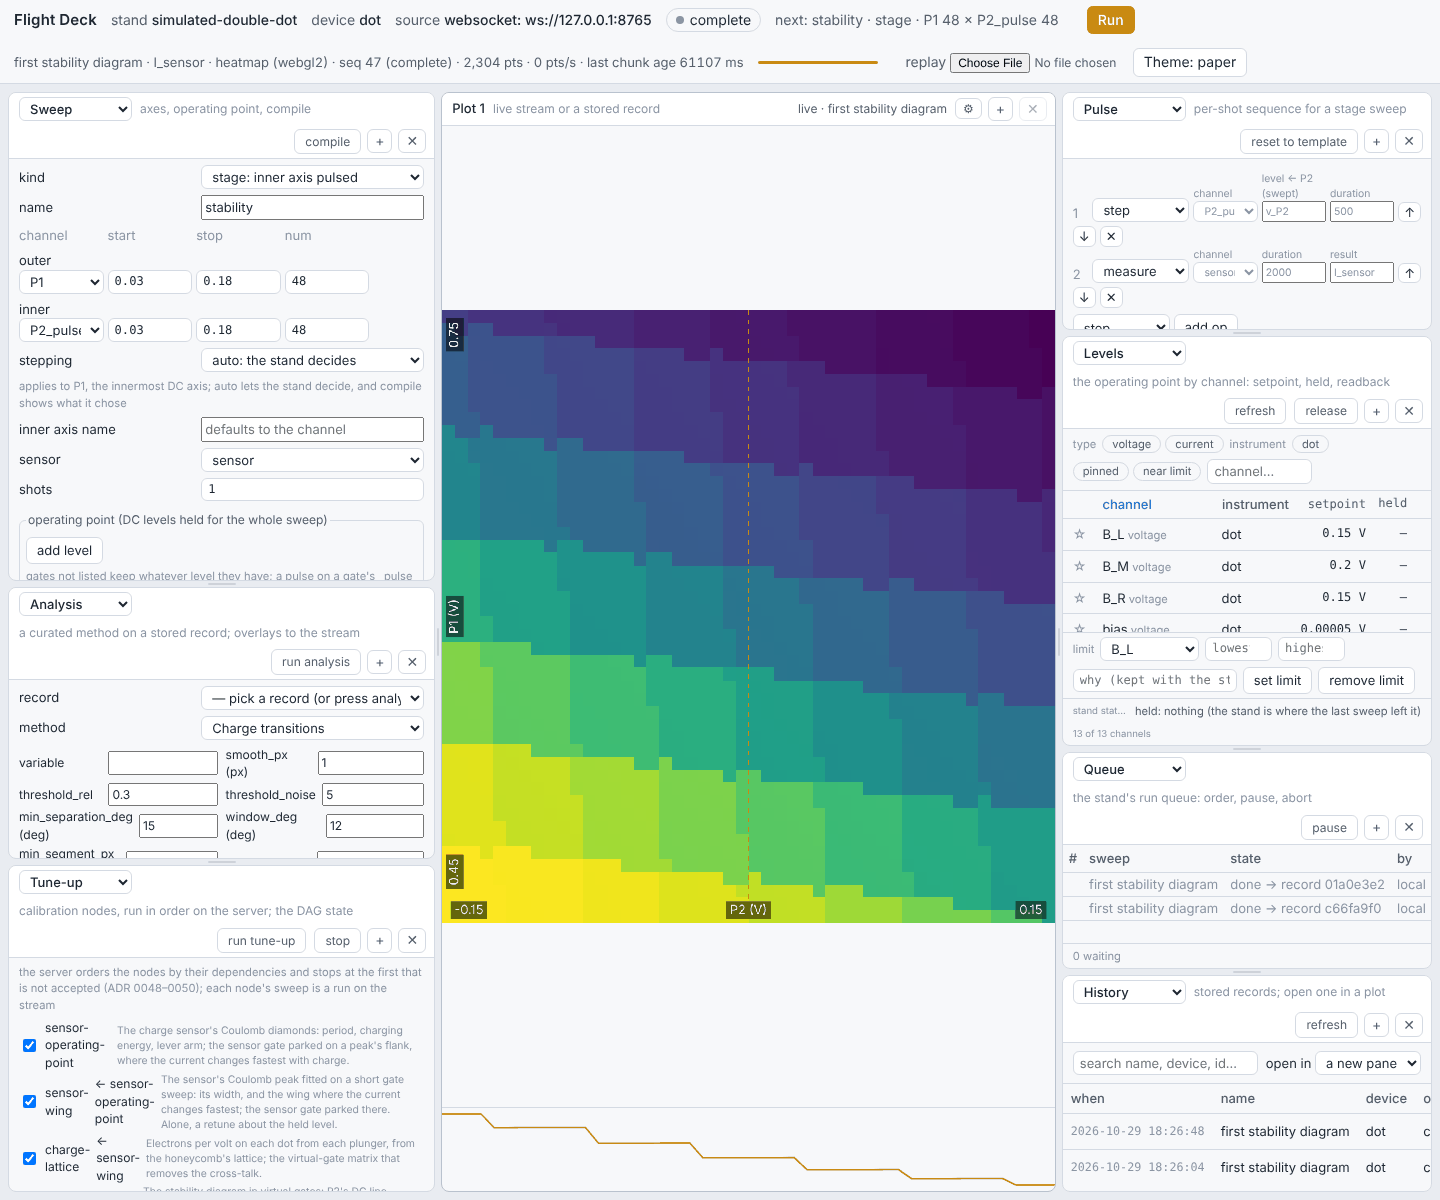
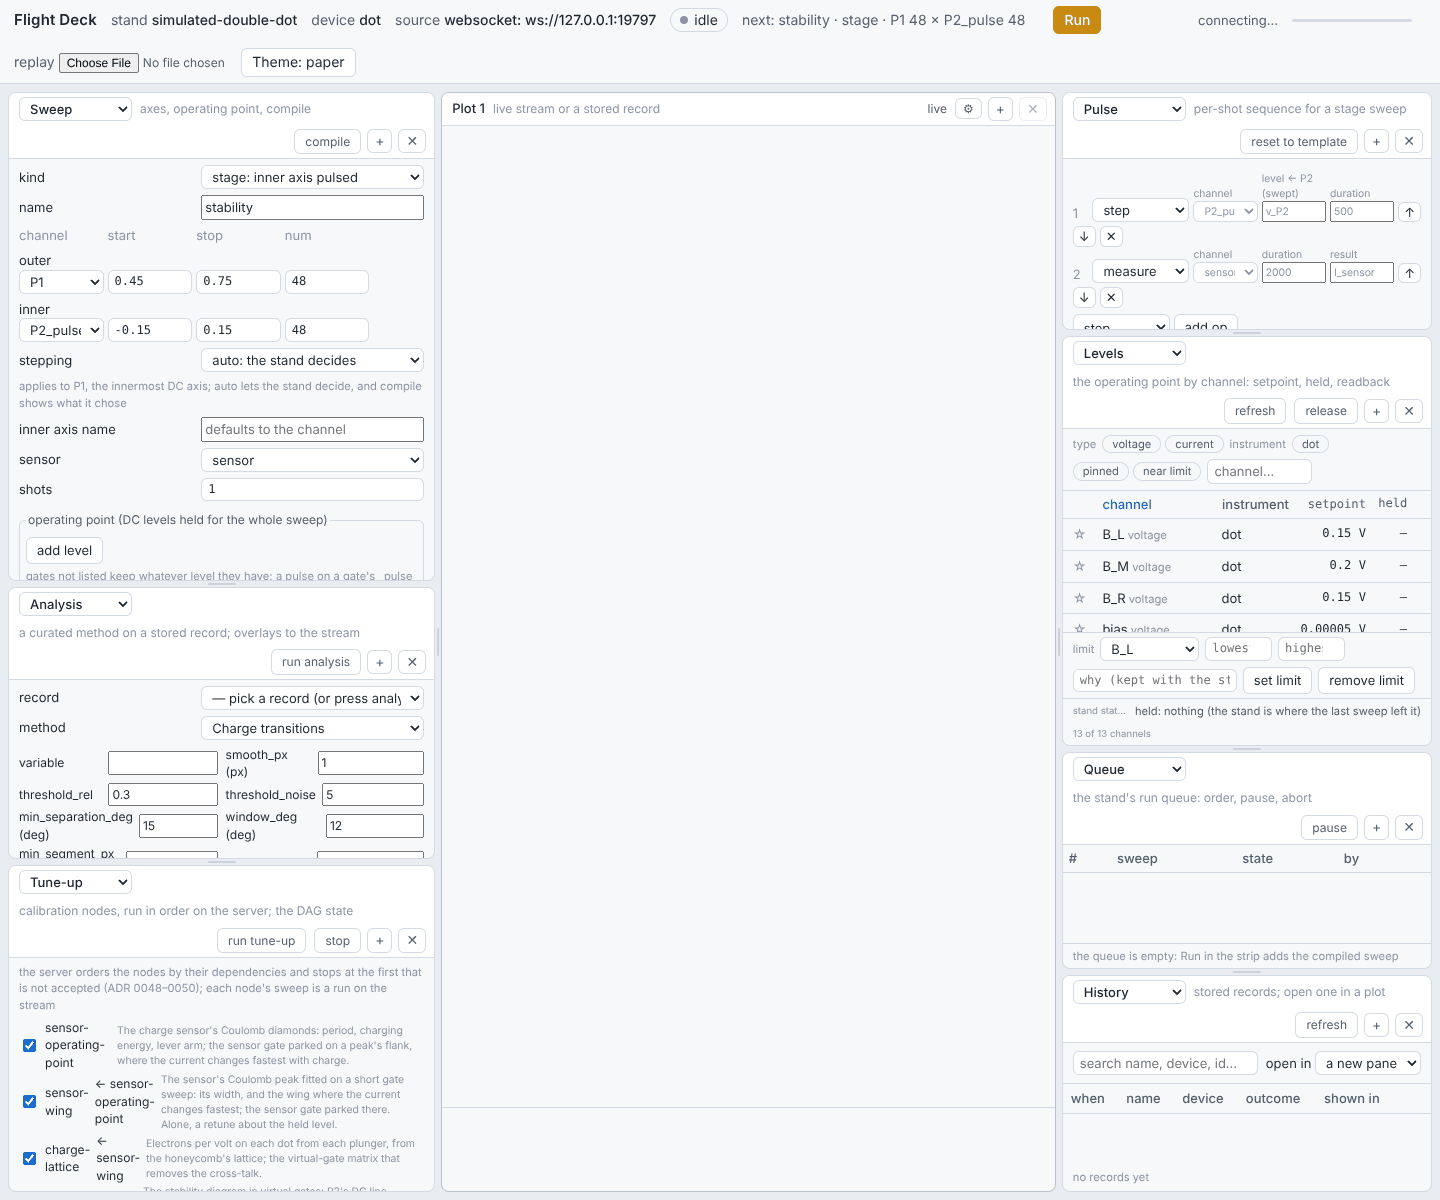
feat(flightdeck): pnpm screenshots regenerates the simulated-stand guide's pictures (#158)
scripts/screenshots.mjs builds, starts its own qdt-server on an empty
registry and free ports, walks the guide's steps in headless Chrome, and
writes docs/guides/img/*.png quantized to 256 colours with a pinned Pillow
fetched by uv run --with for that command alone. A step that does not
complete stops it before any picture is written. The pictures are retaken
with it, and the guide describes the Sweep form's new windows and how to
rerun the script.

Fixes #158

Claude-Session: https://claude.ai/code/session_01SWfRfPXvcGKxftGTLvx9kn

diff --git a/apps/flightdeck/CLAUDE.md b/apps/flightdeck/CLAUDE.md
@@ -14,5 +14,6 @@ UI code may be written once `docs/FINISH_LINE.md` is authored (done) and the `Da
 - The control path (Step 4b, ADR 0032): `src/api/client.ts` is the only code that talks to qdt-server, over HTTP, with the generated `api.ts` types; `src/control/` holds the pure form models (`sweeps.ts`, `methods.ts`, `sequence.ts` — the pulse-sequence editor model, a form over `PulseSequence` whose columns are type-checked against the generated types, ADR 0035: unit-tested) that the widgets in `src/widgets/` present. What is drawn stays a function of the Dataset stream; widgets only ask the server to put things on it.
 - Every announced Dataset is kept and selectable (`#datasets`); the newest is shown as it arrives. `e2e/control.test.ts` is the Step 4b exit: it spawns `python -m qdt_server` and drives the widgets.
 - Transforms (derivative, filter, normalize) are client-side on typed arrays; no server round-trip per toggle. The variable picker and "minus" (a − b of two same-shape variables, ADR 0037) are view options too.
-- The workspace (Step 6b, ADR 0054): `main.ts` is wiring only. `src/workspace/layout.ts` is the pure layout model (three columns of panes, plots only in the centre, split/close/resize, persisted per browser under `flightdeck.layout.v1`); `workspace.ts` renders it and reconciles panes by id; `widget.ts` is the widget contract and registry (`mount(body, head, ctx) => unmount`, a bus scoped per mount so a closed pane leaks nothing); `bus.ts` holds every event widgets exchange (add an event there, nowhere else); `strip.ts` is the top strip (stand, device, source, live pill, next run, the one Run, telemetry, messages, replay picker, theme menu). Widgets live in `src/widgets/` and reach the server only through `ctx.api`, the data through `ctx.datasets` (the shared stores, `src/stream/datasets.ts`), each other through `ctx.bus`. The Step 4b panel is gone (ADR 0058): `analysis` (a record from History's "analyse" (`analysis:record`) or its picker, a method, parameters, run, estimates, overlays/output to the stream) and `tuneup` (nodes, options, start/stop, the DAG state from `TuneUp`) are widgets like the rest. `script` (ADR 0059) is a placeholder: an editor beside the allowed API (`ALLOWED_API`, data), a stage button that lints (allow-list, brackets, quotes) and says nothing ran; execution needs the sandbox ADR. `plot` (ADR 0055) is any number of centre panes over the shared stores, each following the stream or pinned to one Dataset, with its own renderer, view options (the ⚙ menu: dataset, variable, minus, transform, swap, cut) and line cut; six at most (`MAX_PLOT_PANES`, one WebGL2 context each; a closed pane disposes its renderer). `history` lists `/records` and opens one in a pane: the server replays it on the stream and the pane pins itself to the Dataset whose `registry_ref` is the record (`plot:open`); panes announce what they show (`plot:view`). `sweep` and `pulse` (ADR 0056) are the sweep form and the pulse-sequence editor over the unchanged pure models: the Sweep widget compiles (`plan:compiled` carries the identity to the strip), any edit marks the plan stale (`plan:changed`), the strip's one Run (`run:request`) makes the Sweep widget compile again if stale and run; it follows the run (`run:state`). The Pulse widget follows the Sweep widget's template (`sweep:axes`) and publishes its sequence (`pulse:sequence`); a stage sweep needs it mounted. A DC or capture sweep's readout (ADR 0067) is per point or in the shot: in the shot the builders make a one-op shot of their own (a measure on the sensor's sequencer, or a capture from the scope's sequencer's marker, `sensorSequencer` / `captureSequencer`), never the Pulse widget's. A sequencer's own voltage inputs are sensors too (ADR 0069; `standChannels`: a voltage channel of a sequencer that sets no level, neither a `_pulse` line nor a marker line named in a `trigger_from`), read in the shot only (`sensorPerPoint` says why; the result is `V_sensor`, `sensorResult`), and captured by that sequencer itself (`captureSequencer` → `own`); marker lines are offered nowhere. The stepping preference (ADR 0066) applies to the innermost stepped axis of a sweep with a shot; the compiler decides the pacing, and the plan box shows what it chose (`pacingLines`). The e2e tests address panes by position (`.col.center .pane`, `canvas.map`, `canvas.overlay`, `.menu.plot select[name=…]`, `.pane[data-widget=sweep] …`), never by id, and press the strip's `#run`. `levels` (ADR 0057) is the operating point by channel over `GET /levels/state` (polled): setpoint, held, readback; filters, sort and pins are per browser; each channel's limit is the stand's (ADR 0085, 0086: `GET /stand/state`, set or removed with a reason through `POST /stand/state`, refused in the widget and by the server), and after a server restart a banner offers the held point to re-apply or discard (`/levels/pending`); click-to-set lands here (`map:click` → offer → `POST /levels`). `gates` is the stand's coupling matrix (`GET /stand/state`); an edit is a draft until it is saved with a reason, and the Sweep widget takes each stepped axis's row of the saved matrix as `SweepAxis.couplings` (`gates:couplings`), never a stage inner axis or a draft; a finished tune-up's `c_21`/`c_12` are offered to it (`tuneup:outputs`) and go into the draft, never applied unasked. `queue` (ADR 0086) shows the stand server's run queue (`GET /queue`, polled; re-rendered only when it changes, so a click lands): move and remove waiting entries, abort the running one, pause and resume. Colormaps (ADR 0061: `render/colormap.ts`, viridis by polynomial, magma and grey by a 256-entry LUT both renderers read alike; `e2e/pixels.test.ts` runs every renderer × colormap) are a per-pane view setting; a pane's view is remembered in the layout (`Pane.state`, `ctx.pane`), never a dataset id. Web fonts are a per-browser opt-in in the theme menu. The strip's Run adds the compiled sweep to the stand's queue (`POST /queue`, ADR 0086) and the Sweep widget follows the entry until it becomes a run; the strip shows the executing run. Themes are data: `themes/*.json` validated against `themes/theme.schema.json` by `workspace/theme.ts` (thirteen `#rrggbb` tokens, type, shape, scheme, a closed list of decoration flags that become `deco-*` classes on `<html>`); a theme can never inject CSS, and `test/theme.test.ts` keeps the schema and the validator in step. Colormaps are view settings, not theme content. `e2e/workspace.test.ts` drives the shell.
+- The workspace (Step 6b, ADR 0054): `main.ts` is wiring only. `src/workspace/layout.ts` is the pure layout model (three columns of panes, plots only in the centre, split/close/resize, persisted per browser under `flightdeck.layout.v1`); `workspace.ts` renders it and reconciles panes by id; `widget.ts` is the widget contract and registry (`mount(body, head, ctx) => unmount`, a bus scoped per mount so a closed pane leaks nothing); `bus.ts` holds every event widgets exchange (add an event there, nowhere else); `strip.ts` is the top strip (stand, device, source, live pill, next run, the one Run, telemetry, messages, replay picker, theme menu). Widgets live in `src/widgets/` and reach the server only through `ctx.api`, the data through `ctx.datasets` (the shared stores, `src/stream/datasets.ts`), each other through `ctx.bus`. The Step 4b panel is gone (ADR 0058): `analysis` (a record from History's "analyse" (`analysis:record`) or its picker, a method, parameters, run, estimates, overlays/output to the stream) and `tuneup` (nodes, options, start/stop, the DAG state from `TuneUp`) are widgets like the rest. `script` (ADR 0059) is a placeholder: an editor beside the allowed API (`ALLOWED_API`, data), a stage button that lints (allow-list, brackets, quotes) and says nothing ran; execution needs the sandbox ADR. `plot` (ADR 0055) is any number of centre panes over the shared stores, each following the stream or pinned to one Dataset, with its own renderer, view options (the ⚙ menu: dataset, variable, minus, transform, swap, cut) and line cut; six at most (`MAX_PLOT_PANES`, one WebGL2 context each; a closed pane disposes its renderer). `history` lists `/records` and opens one in a pane: the server replays it on the stream and the pane pins itself to the Dataset whose `registry_ref` is the record (`plot:open`); panes announce what they show (`plot:view`). `sweep` and `pulse` (ADR 0056) are the sweep form and the pulse-sequence editor over the unchanged pure models: the Sweep widget compiles (`plan:compiled` carries the identity to the strip), any edit marks the plan stale (`plan:changed`), the strip's one Run (`run:request`) makes the Sweep widget compile again if stale and run; it follows the run (`run:state`). Its axes open 0.3 V wide about where their channels sit (#157: `sittingLevels`, the held level else the setpoint from `GET /levels/state`; `centredWindow`), re-centre on a channel change or `levels:changed`, and never move once the user types a start or stop; "add level" starts at the channel's level. The Pulse widget follows the Sweep widget's template (`sweep:axes`) and publishes its sequence (`pulse:sequence`); a stage sweep needs it mounted. A DC or capture sweep's readout (ADR 0067) is per point or in the shot: in the shot the builders make a one-op shot of their own (a measure on the sensor's sequencer, or a capture from the scope's sequencer's marker, `sensorSequencer` / `captureSequencer`), never the Pulse widget's. A sequencer's own voltage inputs are sensors too (ADR 0069; `standChannels`: a voltage channel of a sequencer that sets no level, neither a `_pulse` line nor a marker line named in a `trigger_from`), read in the shot only (`sensorPerPoint` says why; the result is `V_sensor`, `sensorResult`), and captured by that sequencer itself (`captureSequencer` → `own`); marker lines are offered nowhere. The stepping preference (ADR 0066) applies to the innermost stepped axis of a sweep with a shot; the compiler decides the pacing, and the plan box shows what it chose (`pacingLines`). The e2e tests address panes by position (`.col.center .pane`, `canvas.map`, `canvas.overlay`, `.menu.plot select[name=…]`, `.pane[data-widget=sweep] …`), never by id, and press the strip's `#run`. `levels` (ADR 0057) is the operating point by channel over `GET /levels/state` (polled): setpoint, held, readback; filters, sort and pins are per browser; each channel's limit is the stand's (ADR 0085, 0086: `GET /stand/state`, set or removed with a reason through `POST /stand/state`, refused in the widget and by the server), and after a server restart a banner offers the held point to re-apply or discard (`/levels/pending`); click-to-set lands here (`map:click` → offer → `POST /levels`). `gates` is the stand's coupling matrix (`GET /stand/state`); an edit is a draft until it is saved with a reason, and the Sweep widget takes each stepped axis's row of the saved matrix as `SweepAxis.couplings` (`gates:couplings`), never a stage inner axis or a draft; a finished tune-up's `c_21`/`c_12` are offered to it (`tuneup:outputs`) and go into the draft, never applied unasked. `queue` (ADR 0086) shows the stand server's run queue (`GET /queue`, polled; re-rendered only when it changes, so a click lands): move and remove waiting entries, abort the running one, pause and resume. Colormaps (ADR 0061: `render/colormap.ts`, viridis by polynomial, magma and grey by a 256-entry LUT both renderers read alike; `e2e/pixels.test.ts` runs every renderer × colormap) are a per-pane view setting; a pane's view is remembered in the layout (`Pane.state`, `ctx.pane`), never a dataset id. Web fonts are a per-browser opt-in in the theme menu. The strip's Run adds the compiled sweep to the stand's queue (`POST /queue`, ADR 0086) and the Sweep widget follows the entry until it becomes a run; the strip shows the executing run. Themes are data: `themes/*.json` validated against `themes/theme.schema.json` by `workspace/theme.ts` (thirteen `#rrggbb` tokens, type, shape, scheme, a closed list of decoration flags that become `deco-*` classes on `<html>`); a theme can never inject CSS, and `test/theme.test.ts` keeps the schema and the validator in step. Colormaps are view settings, not theme content. `e2e/workspace.test.ts` drives the shell.
+- The simulated-stand guide's pictures (`docs/guides/img/`) come only from `pnpm screenshots` (`scripts/screenshots.mjs`, #158): it builds, starts its own `qdt-server` on an empty registry, walks the guide's steps in headless Chrome, fails on any step that does not complete, and writes the PNGs quantized with a pinned Pillow that `uv run --with` fetches for that command alone (not a workspace dependency). Rerun it after a change the guide shows.
 - Scope: `replay` (`.qdtrec`) and `websocket` sources (fed by `python -m qdt_lab.stream`, `python -m qdt_registry serve`, or `qdt-server`); 1D trace, 2D heatmap, live update, overlays; from Step 4b the control widgets (stage, DC and, from ADR 0047, capture sweeps). The view is chosen from the Dataset's shape (`view.ts`): a variable whose leading dim has no coordinate over one that does is a trace of its latest record; two coordinated dims are a heatmap. Traces draw on the 2-D `#overlay` canvas (the map renderer owns `#plot`'s WebGL context) and show 1-coordinate markers as rules. Click-to-set (ADR 0053, the one "up" edge): a click on the map yields the point under it as coordinate names and values (`view.pointAt`); the panel maps names to the stand's DC channels (`setpointFor`) and posts `/levels`; the view itself never names a channel or an instrument. Real instruments (Step 5) arrive through the same `websocket` source and the same API; nothing in `src/` changes for them.

diff --git a/docs/guides/simulated-stand.md b/docs/guides/simulated-stand.md
@@ -106,9 +106,11 @@ Either way, the server's interactive API documentation is at <http://127.0.0.1:8
 Each pane's title is a menu, so any pane can show any widget. The `+` button adds a pane below and `✕`
 closes it. The layout is remembered in your browser.
 
-> **Watch the default window.** The Sweep form opens at 0.03 to 0.18 V on both axes with a 2 µs reading.
-> Those values suited qdt's earlier toy simulator. On this device they land far from where the electrons
-> are, and the reading is mostly noise. Use the values below instead.
+> **The Sweep form opens about where the stand sits.** Each stepped axis opens 0.3 V wide, centred on the
+> level its channel is held at, or on the instrument's setpoint when nothing is held. A pulse line opens
+> about 0, because a pulse adds to its gate's DC level. Choosing another channel, or changing a level in
+> **Levels**, centres the window again. Once you type an axis's start or stop, the form leaves that axis
+> alone.
 
 ## 1. Measure a stability diagram
 
@@ -117,10 +119,10 @@ changes in a step each time a dot gains an electron, which draws the honeycomb o
 
 In **Sweep**:
 1. Leave **kind** at `stage: inner axis pulsed`, and name the sweep.
-2. Set the **outer** axis to `P1` from `0.45` to `0.75` with `48` points: 0.15 V either side of its
-   programmed 0.6 V.
-3. Set the **inner** axis to `P2_pulse` from `-0.15` to `0.15` with `48` points. These are offsets,
-   because the pulse adds to `P2`'s 0.6 V DC level.
+2. Check that the **outer** axis is `P1` from `0.45` to `0.75` with `48` points. The form opened it
+   0.15 V either side of `P1`'s 0.6 V.
+3. Check that the **inner** axis is `P2_pulse` from `-0.15` to `0.15` with `48` points. These are
+   offsets, because the pulse adds to `P2`'s 0.6 V DC level.
 4. Set **options** to `{"seed": 1, "noise": false}`. With noise off, the template's 2 µs reading is
    enough. To measure with noise on, change the `measure` row's **duration** in **Pulse** to `1000000`
    (1 ms) or more.
@@ -235,7 +237,7 @@ stand it takes:
 | What you see | Why, and what to do |
 |---|---|
 | The map is speckled noise. | The reading is too short for the noise. Set `"noise": false`, or raise the `measure` duration in Pulse to 1 ms or more. |
-| The map is a smooth slope with no steps. | The window is away from the electrons, probably the 0.03–0.18 V default. Sweep about 0.6 V as in step 1. |
+| The map is a smooth slope with no steps. | The window is away from the electrons. Type a window about the channel's level in **Levels**, such as 0.45 to 0.75 V for `P1` as in step 1. |
 | Flight Deck shows no stand, or every command fails. | The server is not running, or it is on another port. Start `python -m qdt_server`, or pass `?api=` and `?ws=` in Flight Deck's address. |
 | `address already in use` when starting. | Another server is running. Stop it, or start this one with `--port` and `--stream-port`. |
 | A command from another computer is refused. | Commands from another computer need a token. Run `uv run python -m qdt_server --add-token "<desk>"`, start the server with `--host 0.0.0.0`, and open Flight Deck there with `?token=<token>` once. |
@@ -248,3 +250,17 @@ stand it takes:
   is built and pinned.
 - On the bench, the same server runs real instruments: `python -m qdt_server --stand stand.json
   --device-id <id>` (see [BENCH.md](../BENCH.md)). Flight Deck does not change.
+
+## Regenerating these screenshots
+
+The pictures in this guide come from a script that walks the steps above. After a change to Flight
+Deck, retake them from `apps/flightdeck`:
+
+```bash
+corepack pnpm screenshots
+```
+
+It builds Flight Deck and starts its own stand server with an empty registry on free ports. Then it drives
+a headless Chrome through steps 1 to 5 and writes the eight files in `docs/guides/img/`, reduced to 256
+colours. It prints the estimates it saw, so you can check the numbers this guide quotes. A step that
+does not complete stops it with an error, and no picture is changed. It takes about 30 seconds.
